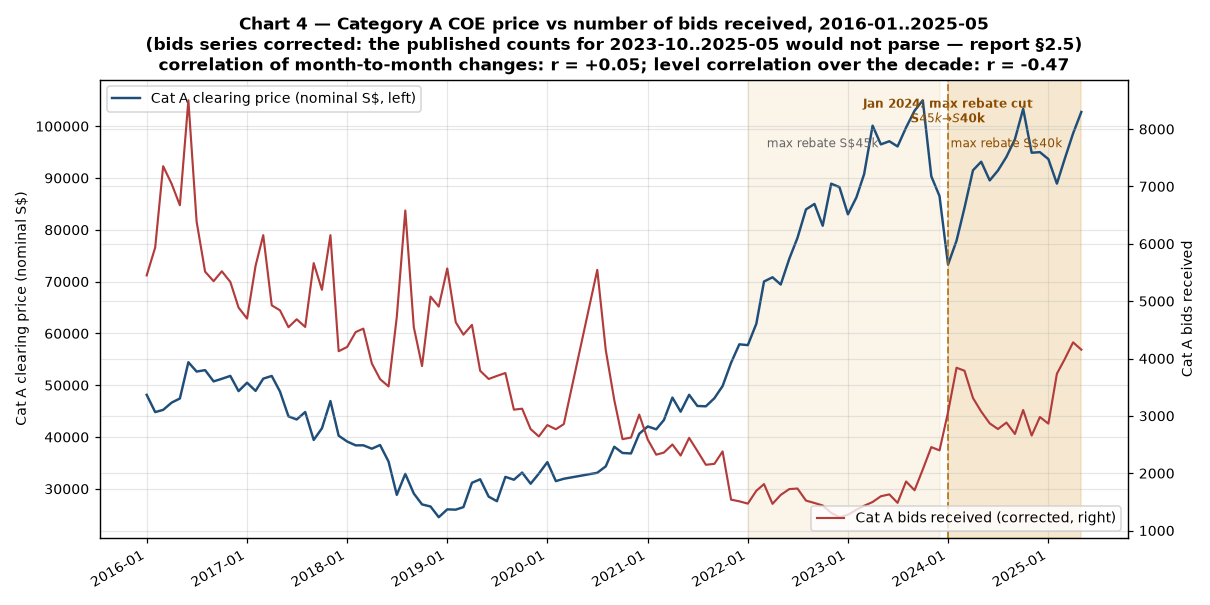
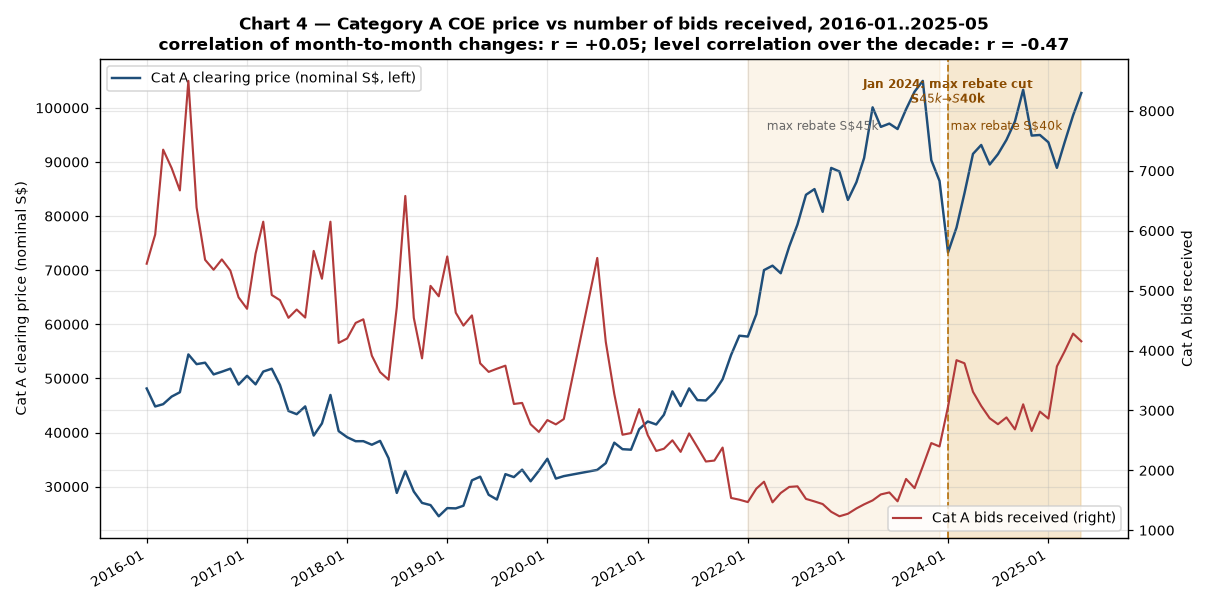
State the bid-count correction once, in the data section; number README sections
- README: add the full correction caveat as the first 'Data caveats'
  bullet in '2. The data' (raw file stores counts as text with
  thousands separators from 2023-10 on; bids_received in
  panel_joint.csv is 0 for 19 months, 2023-10..2025-05; corrected
  series catA_bids_received_clean rebuilt in src/00_data.py,
  non-zero for all 110 COE months, re-verified by 14_verify check (g)).
  Fix the 'Two data caveats' intro that listed three bullets.
- Remove the statement from every other location: Figure 4 title and
  legend, Figure 7 node labels (x2), report stationarity tag,
  report limitation bullet 13, report inventory and method notes.
  The report keeps exactly one occurrence (section 2.5).
- Number the README sections 1-5, findings 4.1-4.7.

diff --git a/src/15_report.py b/src/15_report.py
@@ -719,7 +719,7 @@ def build_report(v: dict) -> str:
     A("### 3.7 Diagnostics — `tables/diagnostics_stationarity_autocorr.csv`")
     A("")
     A(f"- Stationarity: Cat A price (nominal) level ADF p={fp(v['adf_price_level']['adf_p'])} (**I(1)**); "
-      f"1st-diff ADF p={fp(v['adf_price_diff']['adf_p'])} (stationary). Demand (corrected) level ADF "
+      f"1st-diff ADF p={fp(v['adf_price_diff']['adf_p'])} (stationary). Demand level ADF "
       f"p={fp(v['adf_demand_level']['adf_p'])} (I(1)). CPI level ADF p={fp(v['adf_cpi_level']['adf_p'])} (I(1)-ish).")
     A(f"- Residual autocorrelation: **{v['dw']}** (primary price equation); Ljung-Box Q(1) = "
       f"{v['lb1']['adf_stat']:.1f} (p={fp(v['lb1']['adf_p'])}, significant); {v['bg']['note']}. ⇒ **HAC (Newey-West) SEs used**; headline significance is HC1-only.")
@@ -796,8 +796,6 @@ def build_report(v: dict) -> str:
     A("11. **COE-only months after 2025-05.** 2025-06..2026-10 has COE but no registrations; descriptive")
     A("   only (Jan-2026 cap cut).")
     A("12. **Pandemic NA months.** 2020-04/05/06 listwise-dropped, not imputed; N=110.")
-    A("13. **Data-integrity correction.** `catA_bids_received` was corrupted to 0 for 19 months; all")
-    A("   models use the corrected raw-reconstructed series (§2.5).")
     A("")
     A("*Dropped from the old limitations:* the 'plan schedule differs from real policy' limitation is no")
     A("*longer applicable — this run IS the verified policy.*")
@@ -810,7 +808,7 @@ def build_report(v: dict) -> str:
     A("| 1 | `charts/01_price_regime.png` | `tables/chart01_price_regime.csv` | Cat A clearing price (nominal + real) with the REAL policy markers (2018/2021/2024) + the 2022-01 confounder marker |")
     A("| 2 | `charts/02_negative_control_2022.png` | `tables/chart02_negative_control_2022.csv` | negative-control check: 2022-01 % price jump by category (full window) |")
     A("| 3 | `charts/03_negative_control_2024.png` | `tables/chart03_negative_control_2024.csv` | negative-control check: 2024-01 EEAI cap-cut step by category (2022+ EV era) |")
-    A("| 4 | `charts/04_price_demand_dual.png` | `tables/chart04_price_demand_dual.csv` | Cat A COE price vs corrected Cat A bids, 2016-01..2025-05; 2022-01+ rebate era shaded, Jan 2024 cut marked |")
+    A("| 4 | `charts/04_price_demand_dual.png` | `tables/chart04_price_demand_dual.csv` | Cat A COE price vs Cat A bids received, 2016-01..2025-05; 2022-01+ rebate era shaded, Jan 2024 cut marked |")
     A("| 5 | `charts/05_ev_demand.png` | `tables/chart05_ev_demand.csv` | EV registrations + EV share 2022-07..2025-05 (lower bound; some months have no count); Jan 2024 rebate cut marked |")
     A("| 6 | `charts/06_scatter_fit_ci.png` | `tables/chart06_scatter_fit_ci.csv` | price-vs-demand scatter with bivariate fitted line + 95% CI band (association only) |")
     A("| 7 | `charts/07_mediation_diagram.png` | `tables/chart07_mediation_effects.csv` | mediation path (rebate → demand → price) with effect sizes for BOTH scopes |")
@@ -827,8 +825,8 @@ def build_report(v: dict) -> str:
     A(f"`tables/report_figures_checklist.csv`); dose state = {v['dose_changes']} verified changes, {v['dose_n']} distinct")
     A(f"doses [{v['dose_vals']}], and the 2022+ window has {v['dose_2022plus_n']} distinct doses ({v['dose_2022plus_vals']}) → a")
     A("valid estimation scope — the dose varies within the window (e); headline exhibits estimated on the full")
-    A("window AND the 2022+ EV era (f); price-equation demand regressor = corrected")
-    A("catA_bids_received, never ev_reg (g); mediated share on the full-window sample with the 2022+ EV")
+    A("window AND the 2022+ EV era (f); price-equation demand regressor = catA_bids_received,")
+    A("never ev_reg (g); mediated share on the full-window sample with the 2022+ EV")
     A("era reported alongside (h); data-flow/layering contract held (i).")
     A("")
     A("*Generated by `src/15_report.py`. Every numeric claim above was read from a saved")

diff --git a/src/13_charts.py b/src/13_charts.py
@@ -296,14 +296,12 @@ def chart04() -> None:
     ax1.set_title(
         "Chart 4 — Category A COE price vs number of bids received, "
         "2016-01..2025-05\n"
-        "(bids series corrected: the published counts for 2023-10..2025-05 "
-        "would not parse — report §2.5)\n"
         f"correlation of month-to-month changes: r = {r_mom:+.2f}; "
         f"level correlation over the decade: r = {r_level:+.2f}",
     )
     ax2 = ax1.twinx()
     ax2.plot(df["ts"], df["catA_bids_received_clean"], color="#b23b3b", lw=1.4,
-             label="Cat A bids received (corrected, right)")
+             label="Cat A bids received (right)")
     ax2.set_ylabel("Cat A bids received")
     # shaded regions show the max EV rebate in force at each point in time:
     # S$45k (2022-01..2023-12, lighter) then S$40k (2024-01 onward, darker);
@@ -534,7 +532,7 @@ def chart07() -> None:
     node(1.3, 7.6, 2.2, 1.8,
          "EV rebate\n(maximum, S$)\n20k 2016-17 (est.)\n25k 2018-20\n45k 2021-23, 40k 2024+")
     node(5.0, 7.6, 2.3, 1.8,
-         "Cat A bidding demand\n(bids received, corrected\nseries; includes\nnon-EV cars)")
+         "Cat A bidding demand\n(bids received;\nincludes non-EV cars)")
     node(8.7, 7.6, 2.0, 1.8, "Cat A COE\nprice\n(nominal S$)")
     # a
     arrow(2.4, 8.0, 3.9, 8.0, "#b23b3b")
@@ -589,7 +587,7 @@ def chart07() -> None:
     node(1.3, 3.7, 2.2, 1.8,
          "EV rebate\n(maximum, S$)\n2 levels:\n45k 2022-23\n40k 2024+")
     node(5.0, 3.7, 2.3, 1.8,
-         "Cat A bidding demand\n(bids received, corrected\nseries; includes\nnon-EV cars)")
+         "Cat A bidding demand\n(bids received;\nincludes non-EV cars)")
     node(8.7, 3.7, 2.0, 1.8, "Cat A COE\nprice\n(nominal S$)")
     arrow(2.4, 4.1, 3.9, 4.1, "#b23b3b")
     ax.text(3.15, 4.62,

diff --git a/README.md b/README.md
@@ -11,7 +11,7 @@ This repo contains a data-driven study of exactly that question, using a full
 decade of official COE auction results, car registration data, and the
 verified real rebate policy timeline.
 
-## The short answer
+## 1. The short answer
 
 The honest result has two parts:
 
@@ -36,7 +36,7 @@ than pretending to measure a precise effect that the data can't support.
 
 The full write-up, with all statistics, is in [`docs/REPORT.md`](docs/REPORT.md).
 
-## The data
+## 2. The data
 
 Three public, free datasets from [data.gov.sg](https://data.gov.sg):
 
@@ -46,8 +46,18 @@ Three public, free datasets from [data.gov.sg](https://data.gov.sg):
 | Monthly car registrations (2016 → 2025) | How many electric vs hybrid vs petrol cars were registered each month |
 | Consumer price index (monthly) | Inflation, so we can compare prices in "real" (inflation-adjusted) dollars |
 
-Two data caveats worth knowing:
+Data caveats worth knowing:
 
+- **The bid counts needed one correction.** The raw COE results file
+  stores bid counts as text, and from 2023-10 on it writes large numbers
+  with thousands separators (e.g. "1,039"), which the original panel build
+  could not parse — so the `bids_received` column in
+  `data/processed/panel_joint.csv` is 0 for **19 months (2023-10 to
+  2025-05)**, exactly the EV-rebate era. All analysis in this repo uses a
+  corrected series, `catA_bids_received_clean`, rebuilt in `src/00_data.py`
+  from the raw file (separators stripped, monthly sums recomputed); it is
+  non-zero for all 110 COE months and re-verified by `src/14_verify.py`
+  (check (g)) on every run.
 - **EV registration counts are lower bounds.** About half of the monthly
   registration rows don't carry a car-count number (the field went blank more
   often over time), so EV totals are reported with a monthly coverage rate.
@@ -63,7 +73,7 @@ Two data caveats worth knowing:
   free of EV rebates; B and E are "contaminated" (EVs can be in them),
   which is why the negative-control test (Figure 2) relies on C and D.
 
-## What the rebate policy actually did
+## 3. What the rebate policy actually did
 
 The analysis uses the **verified real policy timeline** (LTA/NEA
 announcements and published rate sets):
@@ -80,9 +90,9 @@ That's the key to the whole design: the rebate amount **changed four times**
 over the decade, giving the statistics something to bite on. The full timeline
 with sources is in `tables/rebate_timeline.csv`.
 
-## What we found
+## 4. What we found
 
-### 1. The big 2022 price jump was not caused by the rebates
+### 4.1. The big 2022 price jump was not caused by the rebates
 
 Category A prices rose about **20%** in early 2022 — roughly S$12,000
 above the late-2021 level by Mar 2022, and still ~18% after adjusting for
@@ -132,7 +142,7 @@ Jan 2022 to S$71,556 in Mar 2022. Notably, the Straits Times piece also
 speculated that the rebates and the new engine-power threshold rule may have
 pushed up Category A prices — the very question this study tests.*
 
-### 2. In the EV era, prices did respond to the 2024 rebate cut
+### 4.2. In the EV era, prices did respond to the 2024 rebate cut
 
 Because the rebate changed *again* in Jan 2024 (S$45k → S$40k), the
 2022–2025 window can be estimated on its own — the rebate amount varies
@@ -159,7 +169,7 @@ drop), each measured over the 2022–2025 window.
 open category E, where EV cars can bid) by ~23–37%, while the two rebate-free
 categories (C goods, D motorcycles) move only ~7–8%.*
 
-### 3. Rebates did not make more people bid
+### 4.3. Rebates did not make more people bid
 
 If the rebate story were true, we'd expect bidding demand in Category A to
 rise with rebate generosity. It didn't: the bidding numbers show no
@@ -176,11 +186,10 @@ and 5 show the price-vs-bids relationship and the EV uptake directly.
 *Price and bidding demand over the full window. The two series move
 almost independently — the correlation of their month-to-month changes is
 r = 0.05 (the level correlation r = −0.47 is driven by the 2018–2020
-price spike coinciding with low bid levels). The bids series is a
-corrected one: the published counts for 2023-10..2025-05 would not parse
-(report §2.5). The shaded regions show the max EV rebate in force at each
-point: S\$45k (lighter, 2022-01..2023-12) and S\$40k (darker, 2024-01
-onward); the dashed line marks the Jan 2024 cut.*
+price spike coinciding with low bid levels). The shaded regions show the
+max EV rebate in force at each point: S\$45k (lighter, 2022-01..2023-12)
+and S\$40k (darker, 2024-01 onward); the dashed line marks the Jan 2024
+cut.*
 
 **Figure 5.** Electric car registrations and their share of new-car sales,
 with the data-coverage lower bound.
@@ -192,7 +201,7 @@ with the data-coverage lower bound.
 because some months have no count. The dashed line marks the Jan 2024 cut
 of the maximum rebate from S$45k to S$40k.*
 
-### 4. Prices and bidding demand barely track each other
+### 4.4. Prices and bidding demand barely track each other
 
 A basic requirement for "more bidding → higher prices" is that price and
 bids actually move together. Across the decade they mostly don't (Figure 6).
@@ -204,7 +213,7 @@ the best-fit line and its uncertainty band.
 
 *The fit line is nearly flat — more bids did not reliably mean higher prices.*
 
-### 5. The "rebate → more bidders → higher price" chain is broken
+### 4.5. The "rebate → more bidders → higher price" chain is broken
 
 We also decomposed the effect the way the hypothesis describes: rebate →
 bidding demand → price. The middle link (rebate affecting bidding) is null,
@@ -219,7 +228,7 @@ with the estimated size of each step for both time windows.
 *The indirect (via-bidding) path is statistically indistinguishable from
 zero in both time windows.*
 
-### 6. Looking at each policy change individually doesn't help either
+### 4.6. Looking at each policy change individually doesn't help either
 
 An "event study" examines prices around each of the four policy changes.
 Every single one shows the price was already drifting in that direction
@@ -236,7 +245,7 @@ changes, with uncertainty bars.
 cut). The left side of each panel (months *before* the change) already shows
 large non-zero moves — the pre-trend problem.*
 
-### 7. What we can and can't claim
+### 4.7. What we can and can't claim
 
 - **Can claim:** no detectable EV-specific effect of the rebates on COE
   prices or bidding across the decade; the 2022 price jump showed up in
@@ -248,7 +257,7 @@ large non-zero moves — the pre-trend problem.*
   together by construction), the samples are small, and the one detected
   association sits in a 41-month window with two rebate levels.
 
-## Under the hood (for the curious)
+## 5. Under the hood (for the curious)
 
 **How the study works.** The design's core trick: rebates changed level four
 times over 2016–2025, so months can be compared across rebate levels.

diff --git a/docs/REPORT.md b/docs/REPORT.md
@@ -239,7 +239,7 @@ co-timed). The 2026-01 cap cut is descriptive-only (COE-only extension). → **c
 
 ### 3.7 Diagnostics — `tables/diagnostics_stationarity_autocorr.csv`
 
-- Stationarity: Cat A price (nominal) level ADF p=0.966 (**I(1)**); 1st-diff ADF p=4.86e-17 (stationary). Demand (corrected) level ADF p=0.2 (I(1)). CPI level ADF p=0.767 (I(1)-ish).
+- Stationarity: Cat A price (nominal) level ADF p=0.966 (**I(1)**); 1st-diff ADF p=4.86e-17 (stationary). Demand level ADF p=0.2 (I(1)). CPI level ADF p=0.767 (I(1)-ish).
 - Residual autocorrelation: **Durbin-Watson = 0.7886** (primary price equation); Ljung-Box Q(1) = 38.5 (p=5.35e-10, significant); Breusch-Godfrey (nlags=3): F=20.0961. ⇒ **HAC (Newey-West) SEs used**; headline significance is HC1-only.
 - **Power:** full window = 3 verified dose steps + 2 tax/confounder events, 110 monthly obs;
 2022+ EV era = 2 dose levels, **41 obs** — LOW POWER in both scopes; wide CIs expected. Precise
@@ -305,8 +305,6 @@ not falsified on the 2022+ EV era, not isolating a clean EV effect on the full w
 11. **COE-only months after 2025-05.** 2025-06..2026-10 has COE but no registrations; descriptive
    only (Jan-2026 cap cut).
 12. **Pandemic NA months.** 2020-04/05/06 listwise-dropped, not imputed; N=110.
-13. **Data-integrity correction.** `catA_bids_received` was corrupted to 0 for 19 months; all
-   models use the corrected raw-reconstructed series (§2.5).
 
 *Dropped from the old limitations:* the 'plan schedule differs from real policy' limitation is no
 *longer applicable — this run IS the verified policy.*
@@ -319,7 +317,7 @@ not falsified on the 2022+ EV era, not isolating a clean EV effect on the full w
 | 1 | `charts/01_price_regime.png` | `tables/chart01_price_regime.csv` | Cat A clearing price (nominal + real) with the REAL policy markers (2018/2021/2024) + the 2022-01 confounder marker |
 | 2 | `charts/02_negative_control_2022.png` | `tables/chart02_negative_control_2022.csv` | negative-control check: 2022-01 % price jump by category (full window) |
 | 3 | `charts/03_negative_control_2024.png` | `tables/chart03_negative_control_2024.csv` | negative-control check: 2024-01 EEAI cap-cut step by category (2022+ EV era) |
-| 4 | `charts/04_price_demand_dual.png` | `tables/chart04_price_demand_dual.csv` | Cat A COE price vs corrected Cat A bids, 2016-01..2025-05; 2022-01+ rebate era shaded, Jan 2024 cut marked |
+| 4 | `charts/04_price_demand_dual.png` | `tables/chart04_price_demand_dual.csv` | Cat A COE price vs Cat A bids received, 2016-01..2025-05; 2022-01+ rebate era shaded, Jan 2024 cut marked |
 | 5 | `charts/05_ev_demand.png` | `tables/chart05_ev_demand.csv` | EV registrations + EV share 2022-07..2025-05 (lower bound; some months have no count); Jan 2024 rebate cut marked |
 | 6 | `charts/06_scatter_fit_ci.png` | `tables/chart06_scatter_fit_ci.csv` | price-vs-demand scatter with bivariate fitted line + 95% CI band (association only) |
 | 7 | `charts/07_mediation_diagram.png` | `tables/chart07_mediation_effects.csv` | mediation path (rebate → demand → price) with effect sizes for BOTH scopes |
@@ -336,8 +334,8 @@ the 3 pandemic NA months documented (b); every VERIFIED rebate-step date (2018-0
 `tables/report_figures_checklist.csv`); dose state = 3 verified changes, 4 distinct
 doses [20000; 25000; 40000; 45000], and the 2022+ window has 2 distinct doses (40000; 45000) → a
 valid estimation scope — the dose varies within the window (e); headline exhibits estimated on the full
-window AND the 2022+ EV era (f); price-equation demand regressor = corrected
-catA_bids_received, never ev_reg (g); mediated share on the full-window sample with the 2022+ EV
+window AND the 2022+ EV era (f); price-equation demand regressor = catA_bids_received,
+never ev_reg (g); mediated share on the full-window sample with the 2022+ EV
 era reported alongside (h); data-flow/layering contract held (i).
 
 *Generated by `src/15_report.py`. Every numeric claim above was read from a saved
